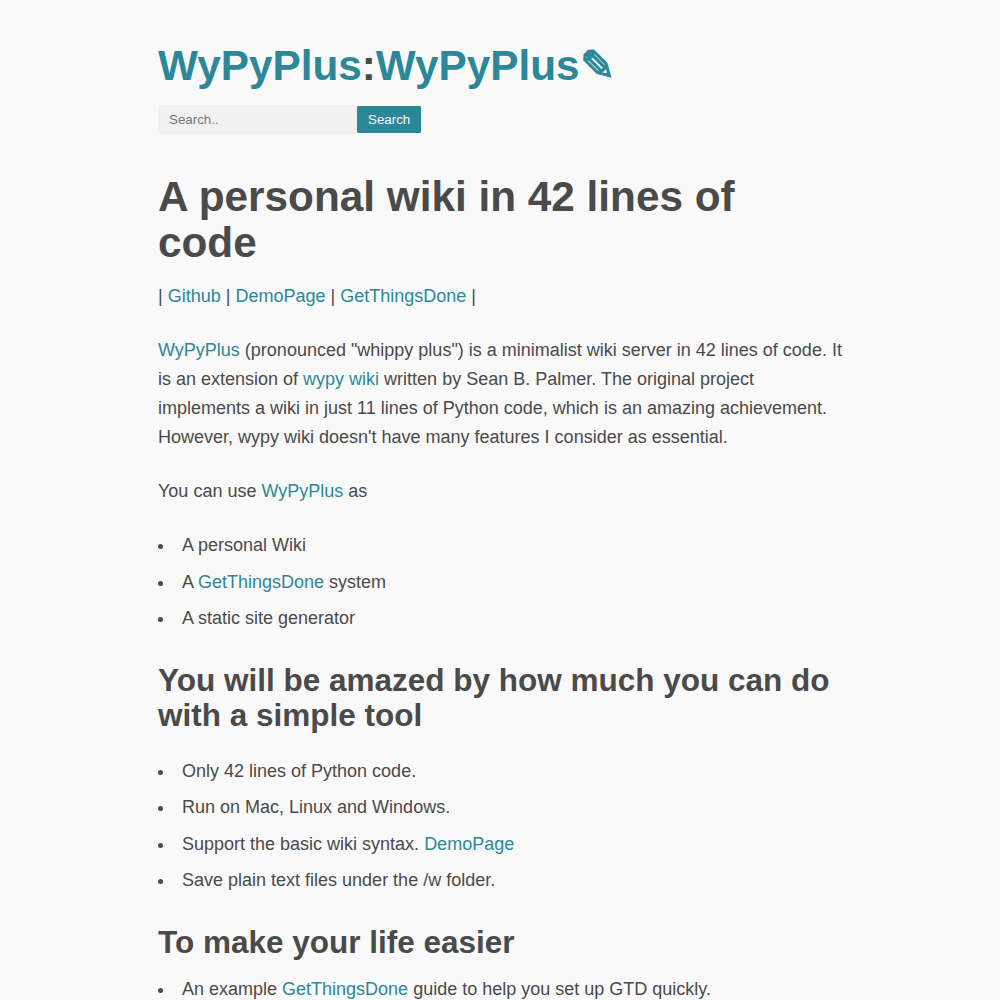
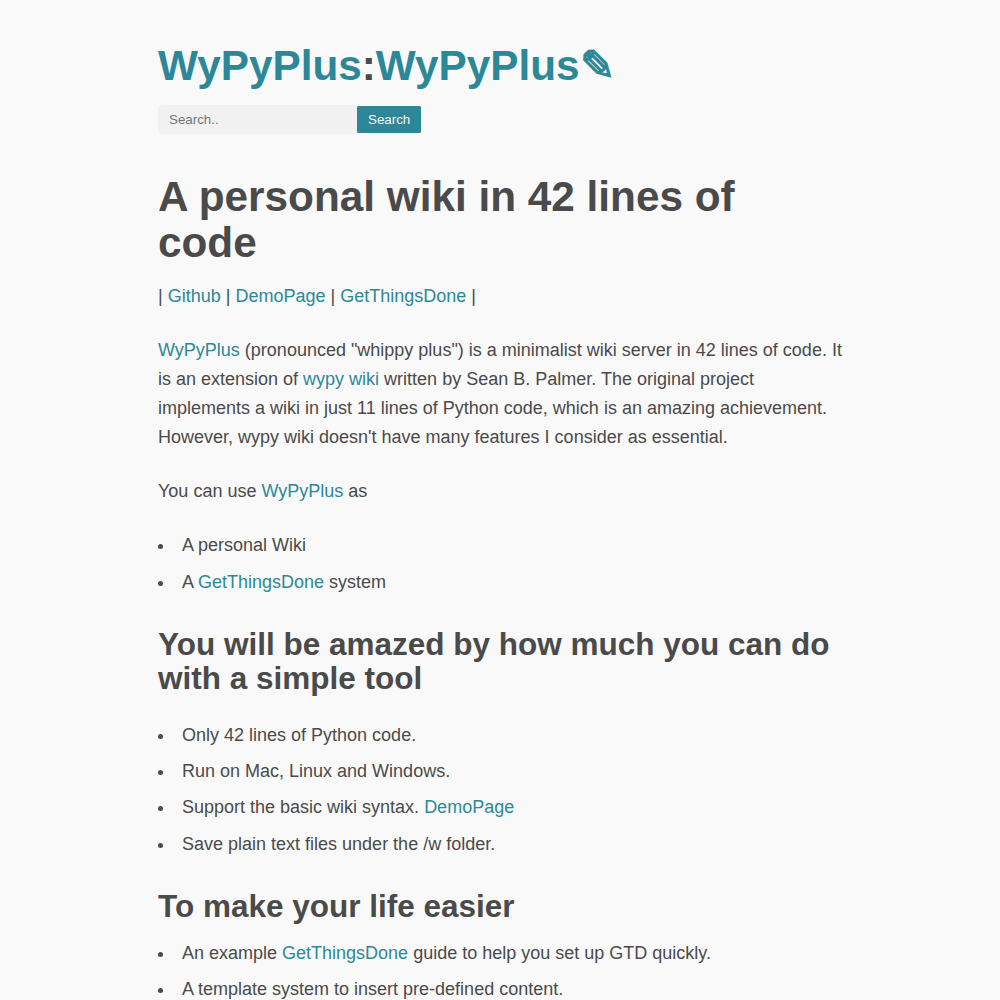
README: add a feature list; drop the static site generator line
Remove "A static site generator" from the home page and refresh the
README screenshot to match.

Claude-Session: https://claude.ai/code/session_016EwvWErsGGUNdNRC5v7inD

Changed region(s): [[0.155, 0.589, 0.837, 1.0]]

diff --git a/README.md b/README.md
@@ -6,6 +6,21 @@ Pages are plain text files in the `w` folder. No database, no config, no build s
 
 ![WyPyPlus home page](screenshots/wypyplus.png)
 
+## Features
+
+* One Python file, 42 lines. Nothing to install except Python 3.
+* Runs on Mac, Linux and Windows.
+* Pages are plain text files in the `w` folder. No database, no config.
+* WikiWord links, markdown-style formatting and tables.
+* Full-text search and an index of all pages.
+* Tags: `@Tag` links to every page that mentions it.
+* Templates for new pages, and `INCLUDE(PageName)` to pull one page into another.
+* A `GlobalMenu` page that shows on every page.
+* Delete a page by saving it empty.
+* Optional read-only mode.
+* A clean, mobile-friendly look with [Sakura CSS](https://github.com/oxalorg/sakura).
+* An example [GetThingsDone](w/GetThingsDone) guide to set up a GTD system.
+
 ## Quick start
 
 You need Python 3.8 or newer.
